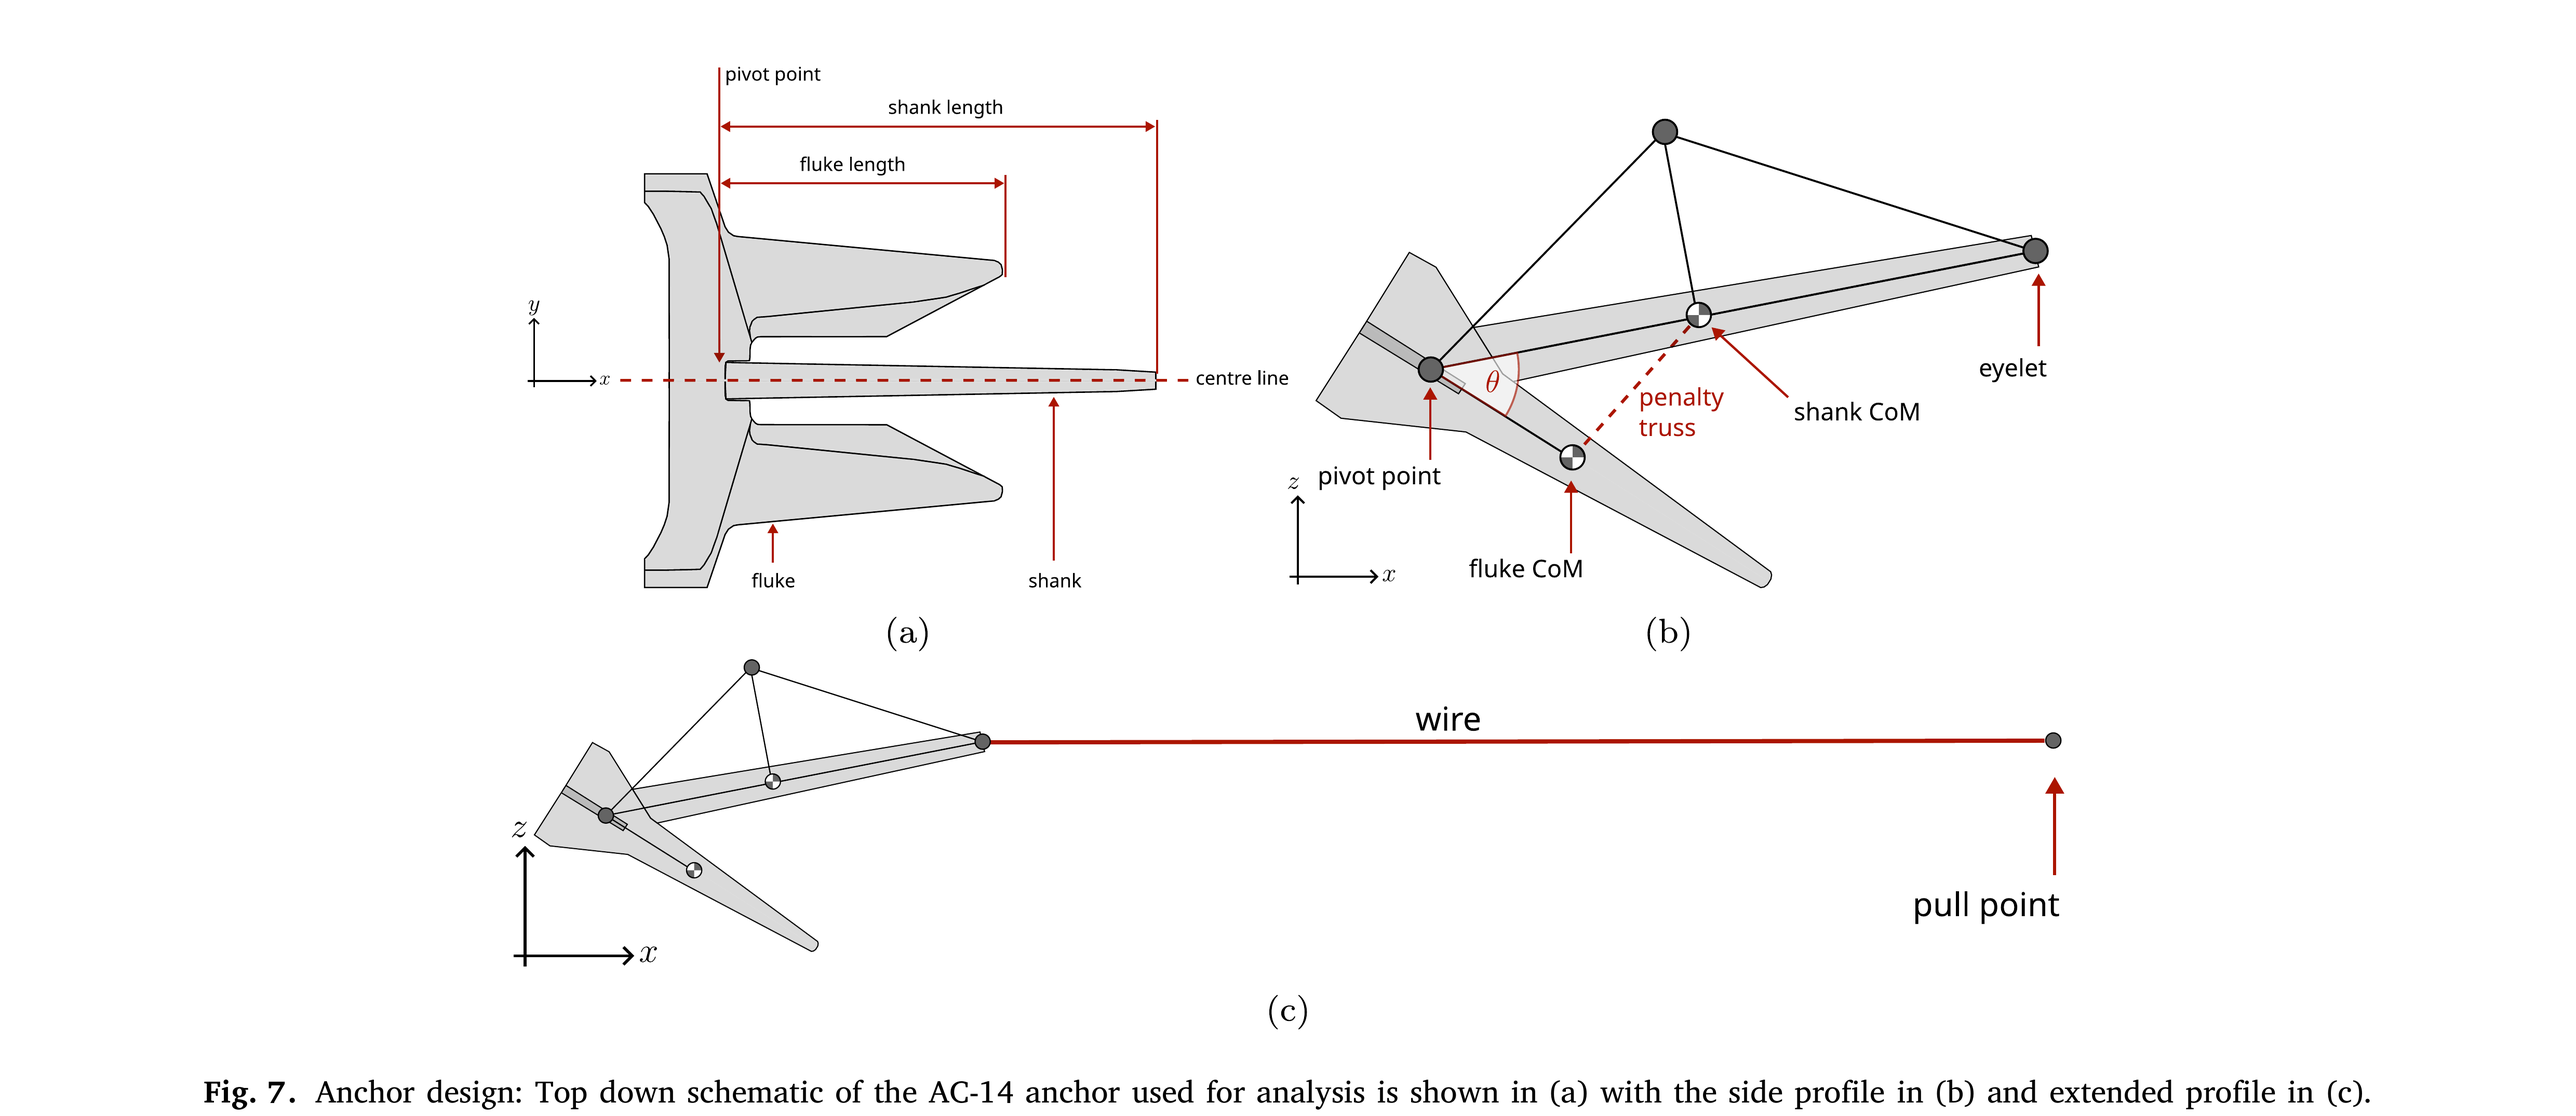
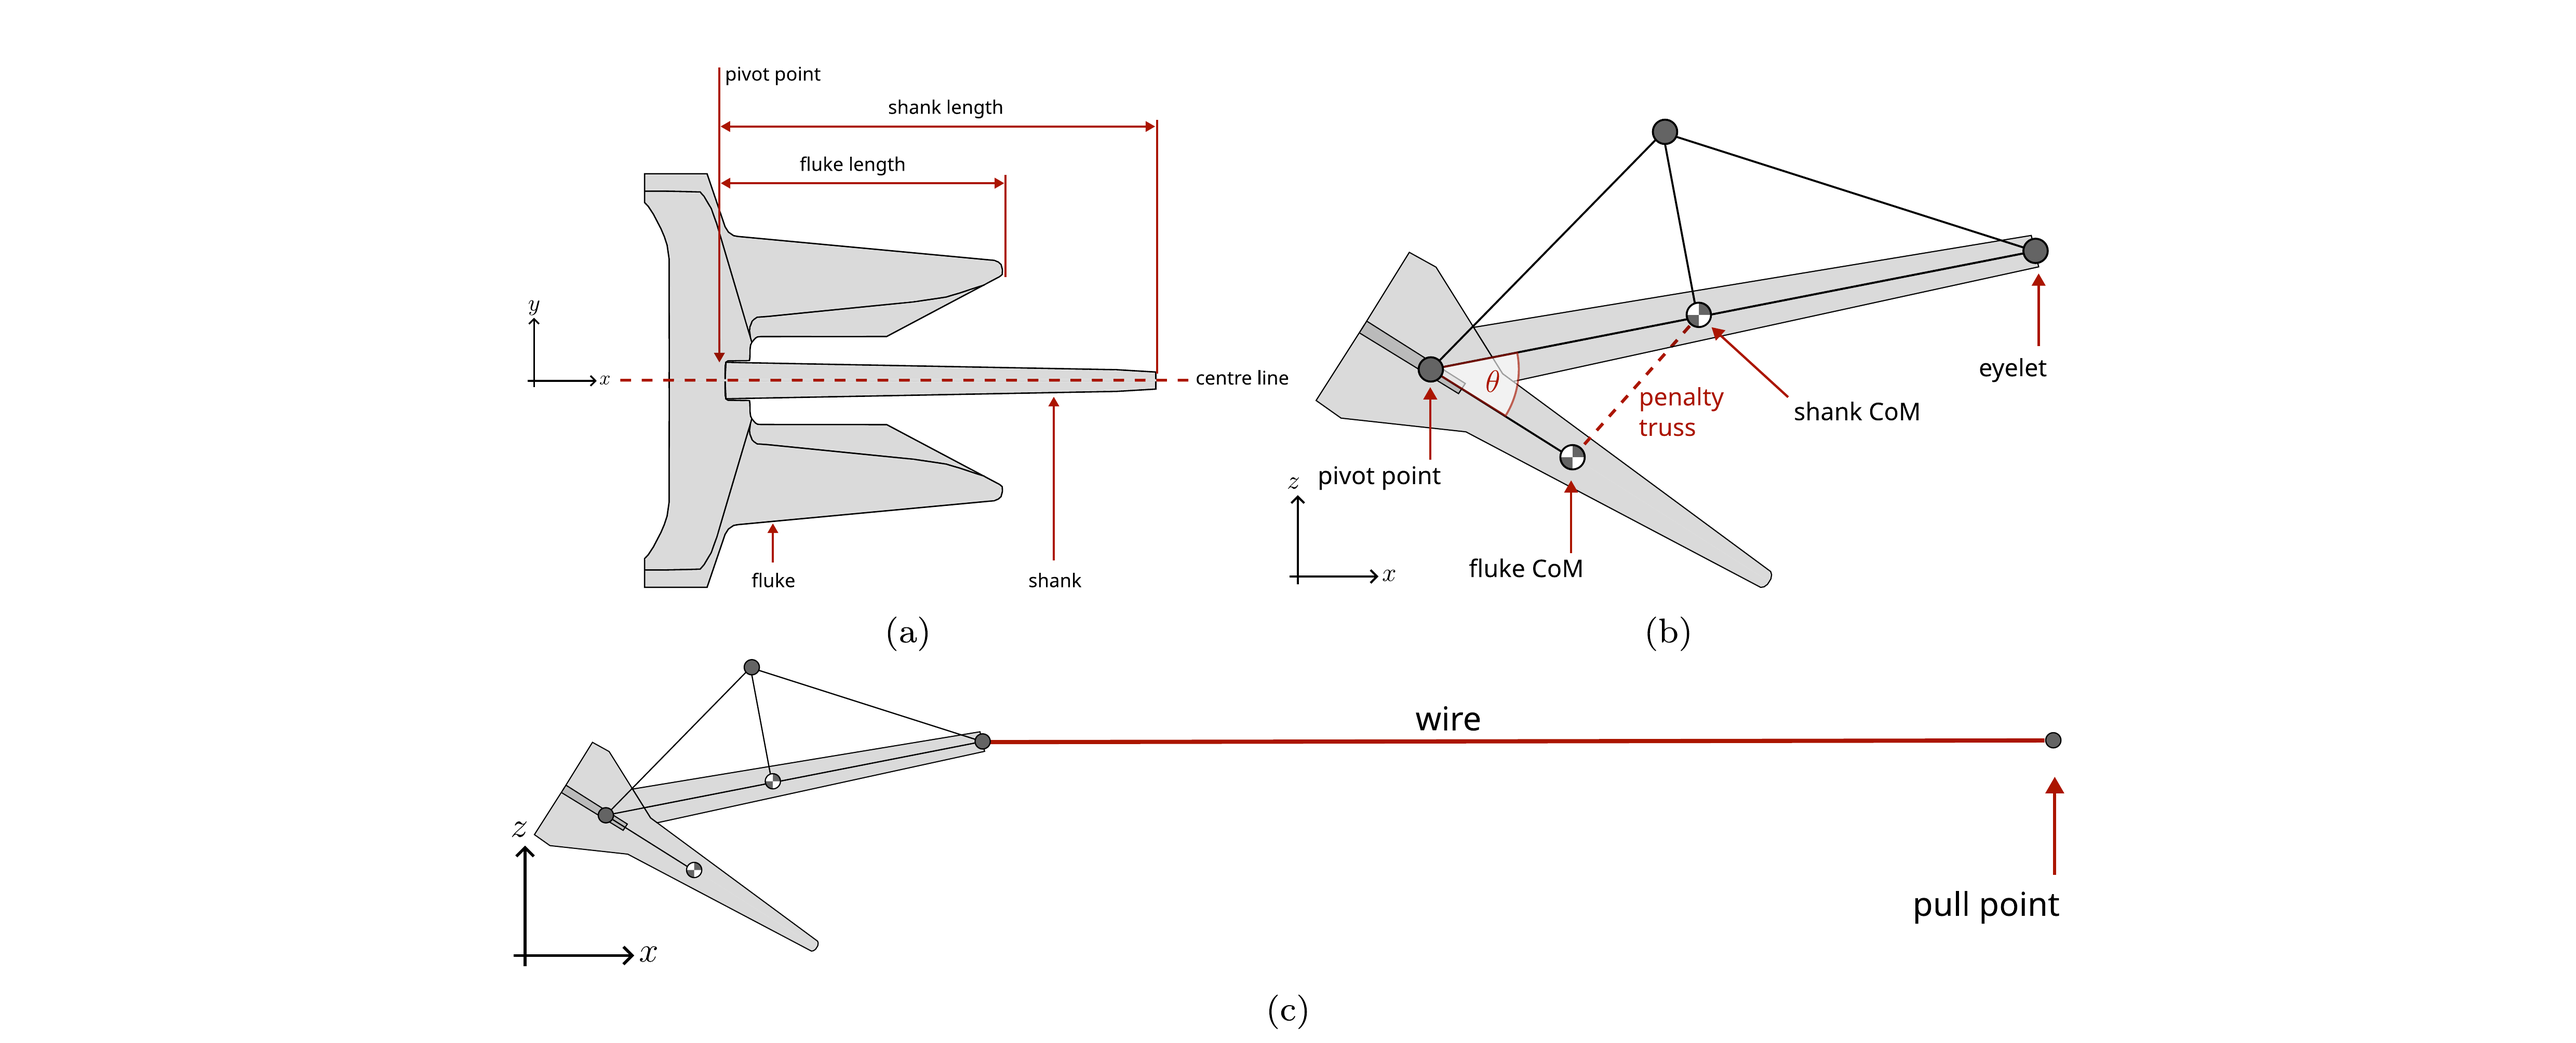
updating figures

diff --git a/docs/docs/TutorialProblems/Tutorial_6.md b/docs/docs/TutorialProblems/Tutorial_6.md
@@ -18,7 +18,7 @@ You will define the geometry, mesh, boundary conditions, material, rigid body (a
 
 Only half of the anchor is modelled, exploiting the $xz$-symmetry plane. The full $19$ m horizontal drag is achieved with a partitioned domain that travels with the anchor rather than meshing all $19$ m at once. The domain dimensions and the truss-frame abstraction of the anchor are shown in [](#fig-anchor-setup).
 
-![Top: domain dimensions for the anchor penetration problem. Bottom: the truss frame used to model the anchor (shank + fluke, hinged) and the pull wire, with the pull point marked.](../../img/anchor_schematic_combined.png){ #fig-anchor-setup width="70%" }
+![Top: domain dimensions for the anchor penetration problem. Bottom: the truss frame used to model the anchor (shank + fluke, hinged) and the pull wire, with the pull point marked.](../../img/anchor_schematic_combined.png){ #fig-anchor-setup width="50%" }
 
 *Figure reproduced from [@bird2026implicitoctreebasedadaptivematerial].*
 
